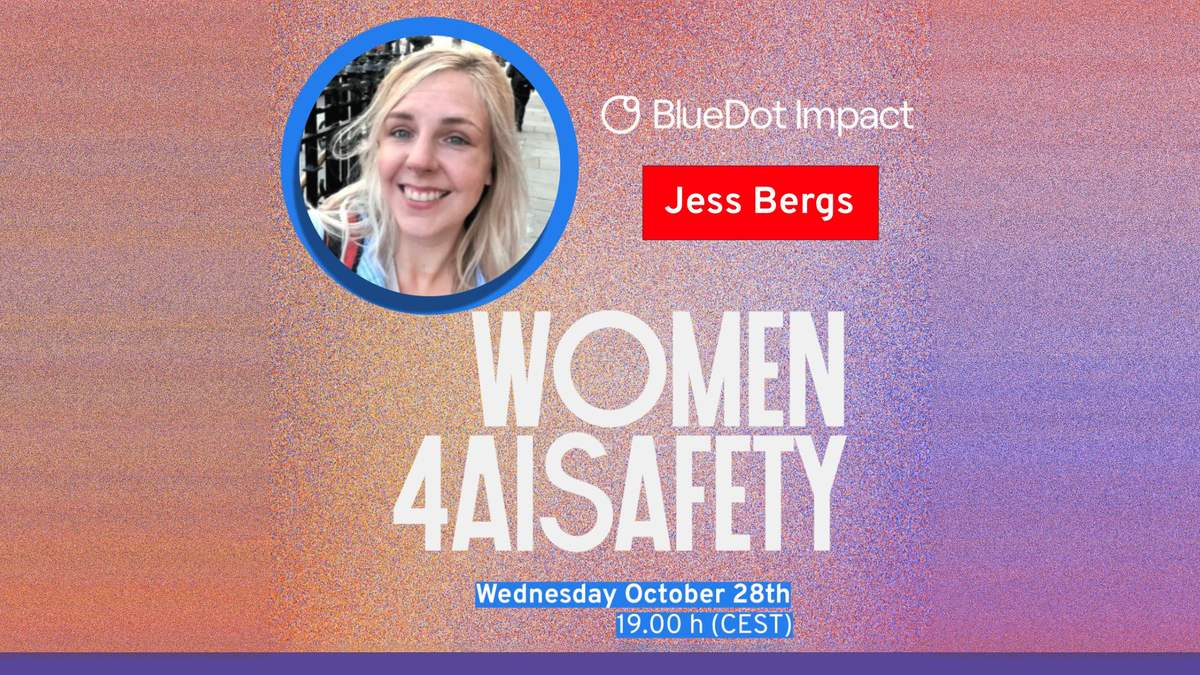
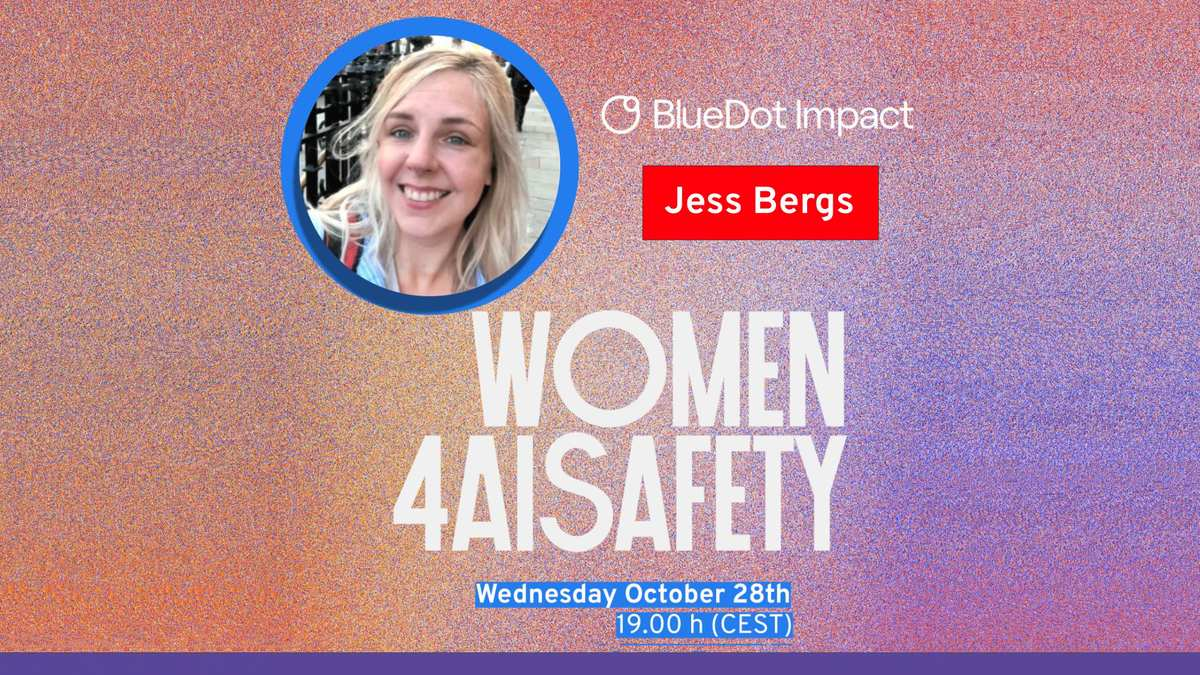
content: even out the extended dither on the Women4AISafety tile
The background fill now copies 12 px blocks instead of single pixels, so the dither's local structure carries over, and it draws them from per-row content-free spans up to 60 px inside each edge instead of a 16 px strip beside the portrait ring, which removes the faint horizontal streaks on the left.

diff --git a/docs/assets/women4aisafety-tile-candidates/make_tiles.py b/docs/assets/women4aisafety-tile-candidates/make_tiles.py
@@ -5,12 +5,16 @@ usage: uv run --with pillow python -I make_tiles.py <screenshot.png>
 
 The screenshot is the 1142x1432 LinkedIn post; GRAPHIC is the square event
 graphic inside it. The tile is 16:9, so the graphic's speckled gradient
-background is extended: sideways from content-free slivers at the left and
+background is extended: sideways from content-free columns at the left and
 right edges (keeping the top-bottom gradient), and above and below from
 content-free bands at the top and just under the date line (keeping the
-left-right gradient). Every added pixel is a random pixel from the relevant
-sliver/band within JITTER rows or columns of its own position, which keeps the
-gradient and speckle continuous without seams or banding.
+left-right gradient). The fill copies PATCH x PATCH blocks rather than single
+pixels, so the dither's local structure carries over; each block comes from
+within JITTER rows (sides) or BAND_JITTER columns (bands) of its own position,
+and side blocks come from at most SIDE_REACH columns inside the edge so their
+colour matches the edge. Content-free spans are found per row by scanning for
+text, ring and badge pixels, which gives the fill far more source material than
+the thin strip beside the portrait ring alone.
 
 Variant A (live) drops the purple base strip and gives the content equal
 background margins of GAP rows above the portrait ring and below the date line.
@@ -28,9 +32,12 @@ HERE = Path(__file__).resolve().parent
 OUT_W, OUT_H = 1200, 675
 SIZE_CAP = 150_000
 GRAPHIC = (0, 277, 1109, 1390)  # (x0, y0, x1, y1) of the graphic in the screenshot (1109+ is page border)
-RIGHT_SLIVER = (1080, 1108)  # content-free columns at the graphic's right edge
+RIGHT_SLIVER = (1080, 1108)  # fallback content-free columns at the right edge (beside "BlueDot Impact")
 LEFT_SLIVER_MAX = 28
-JITTER = 14  # rows/columns either side a sampled pixel may come from
+PATCH = 12  # the fill copies PATCH x PATCH blocks, which keeps the dither's local structure
+JITTER = 14  # rows a side-fill block may be taken from, either side of its own row
+BAND_JITTER = 60  # columns a top/bottom-fill block may be taken from, either side of its own column
+SIDE_REACH = 60  # how far inside an edge a side-fill block may come from
 GAP = 52  # variant A: background rows above the ring and below the date line
 STRIP_GAP = 14  # variant B: extra background rows between the date line and the strip
 LIVE = "A-no-strip.jpg"
@@ -52,6 +59,12 @@ def luminance(p):
 def is_ring(p):
     r, g, b = p
     return b > 150 and r < 100 and b > g + 30
+
+
+def is_content(p):
+    """White text, ring/date-box blue, or badge red, as opposed to the speckled background."""
+    r, g, b = p
+    return luminance(p) > 225 or (b > 150 and r < 110) or (r > 190 and g < 90 and b < 90)
 
 
 def ring_bounds(graphic, run=6):
@@ -92,36 +105,76 @@ def text_bottom_row(graphic, strip_y, run=3):
     return strip_y - 1
 
 
+def free_spans(img, margin=6, run=3):
+    """Per row, (left, right): columns [0, left) and [right, W) hold no content run."""
+    px = img.load()
+    w, h = img.size
+    lefts, rights = [], []
+    for y in range(h):
+        n, lf = 0, w
+        for x in range(w):
+            n = n + 1 if is_content(px[x, y]) else 0
+            if n >= run:
+                lf = x - run + 1
+                break
+        n, rf = 0, 0
+        for x in range(w - 1, -1, -1):
+            n = n + 1 if is_content(px[x, y]) else 0
+            if n >= run:
+                rf = x + run
+                break
+        lefts.append(max(0, lf - margin))
+        rights.append(min(w, rf + margin))
+    return lefts, rights
+
+
 def band_fill(graphic, band, width, height, rng):
-    """width x height patch: pixel (x, y) is a random pixel from rows `band` near column x."""
+    """width x height fill made of blocks copied from rows `band`, each from near its own column."""
     if height <= 0:
         return None
-    src = graphic.load()
     out = Image.new("RGB", (width, height))
-    dst = out.load()
     y0, y1 = band
+    ph = min(PATCH, y1 - y0)
     w = graphic.width
-    for y in range(height):
-        for x in range(width):
-            sx = min(max(x + rng.randint(-JITTER, JITTER), 0), w - 1)
-            dst[x, y] = src[sx, rng.randrange(y0, y1)]
+    for y in range(0, height, ph):
+        bh = min(ph, height - y)
+        for x in range(0, width, PATCH):
+            bw = min(PATCH, width - x)
+            sx = min(max(x + rng.randint(-BAND_JITTER, BAND_JITTER), 0), w - bw)
+            sy = rng.randint(y0, y1 - bh)
+            out.paste(graphic.crop((sx, sy, sx + bw, sy + bh)), (x, y))
     return out
 
 
-def side_fill(graphic, sliver, width, rng, strip_y=None):
-    """width x H patch: pixel (x, y) is a random pixel from columns `sliver` near row y."""
-    src = graphic.load()
-    h = graphic.height
+def side_fill(img, side, width, rng, spans, left_sliver, strip_y=None):
+    """width x H fill of blocks copied from content-free columns at `side`, each from near its own row."""
+    w, h = img.size
     out = Image.new("RGB", (width, h))
-    dst = out.load()
-    x0, x1 = sliver
-    for y in range(h):
-        lo, hi = 0, h - 1
+    lefts, rights = spans
+    for y in range(0, h, PATCH):
+        bh = min(PATCH, h - y)
+        lo, hi = 0, h - bh
         if strip_y is not None:
-            lo, hi = (0, strip_y - 1) if y < strip_y else (strip_y, h - 1)
-        for x in range(width):
+            if y + bh <= strip_y:
+                hi = strip_y - bh
+            elif y >= strip_y:
+                lo = strip_y
+            else:
+                lo = hi = y  # block straddles the strip edge: copy it aligned
+        for x in range(0, width, PATCH):
+            bw = min(PATCH, width - x)
             sy = min(max(y + rng.randint(-JITTER, JITTER), lo), hi)
-            dst[x, y] = src[rng.randrange(x0, x1), sy]
+            if side == "left":
+                lw = min(min(lefts[sy:sy + bh]), SIDE_REACH)
+                if lw < bw:
+                    lw = left_sliver[1]
+                sx = rng.randint(0, lw - bw)
+            else:
+                rf = max(max(rights[sy:sy + bh]), w - SIDE_REACH)
+                if w - rf < bw:
+                    rf = RIGHT_SLIVER[0]
+                sx = rng.randint(rf, w - bw)
+            out.paste(img.crop((sx, sy, sx + bw, sy + bh)), (x, y))
     return out
 
 
@@ -135,12 +188,13 @@ def compose(parts, left_sliver, rng, strip_h=0):
         g.paste(p, (0, y))
         y += p.height
     strip_y = h - strip_h if strip_h else None
+    spans = free_spans(g)
     extra = round(h * OUT_W / OUT_H) - g.width
     left_w, right_w = extra // 2, extra - extra // 2
     c = Image.new("RGB", (g.width + extra, h))
-    c.paste(side_fill(g, left_sliver, left_w, rng, strip_y), (0, 0))
+    c.paste(side_fill(g, "left", left_w, rng, spans, left_sliver, strip_y), (0, 0))
     c.paste(g, (left_w, 0))
-    c.paste(side_fill(g, RIGHT_SLIVER, right_w, rng, strip_y), (left_w + g.width, 0))
+    c.paste(side_fill(g, "right", right_w, rng, spans, left_sliver, strip_y), (left_w + g.width, 0))
     return c.resize((OUT_W, OUT_H), Image.LANCZOS)
 
 
